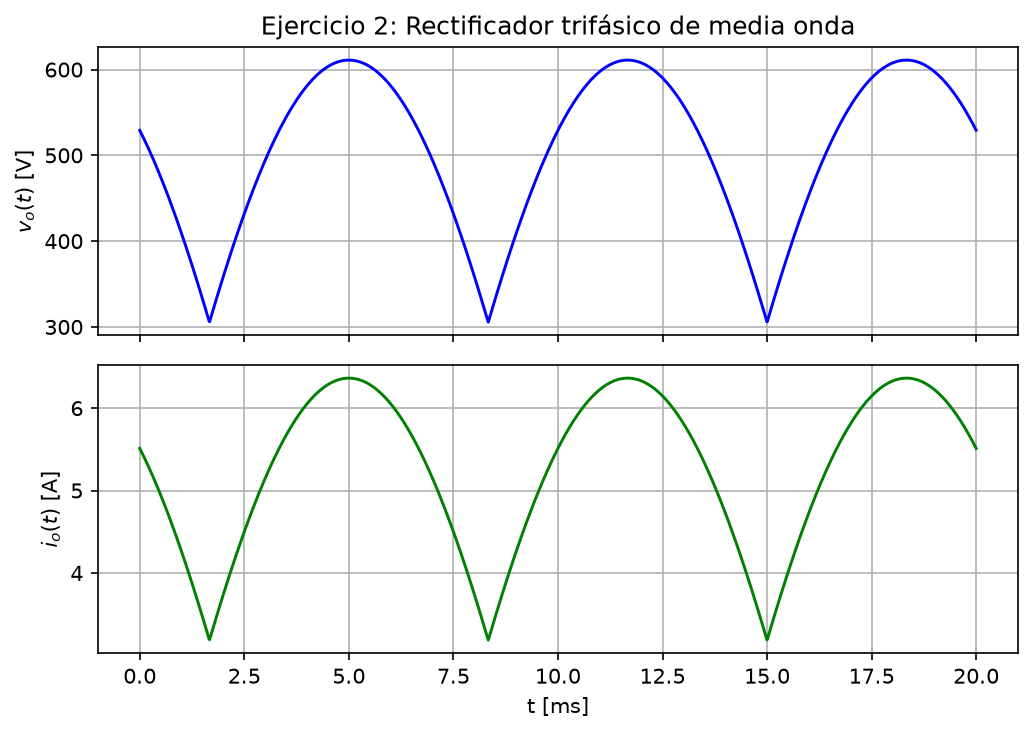
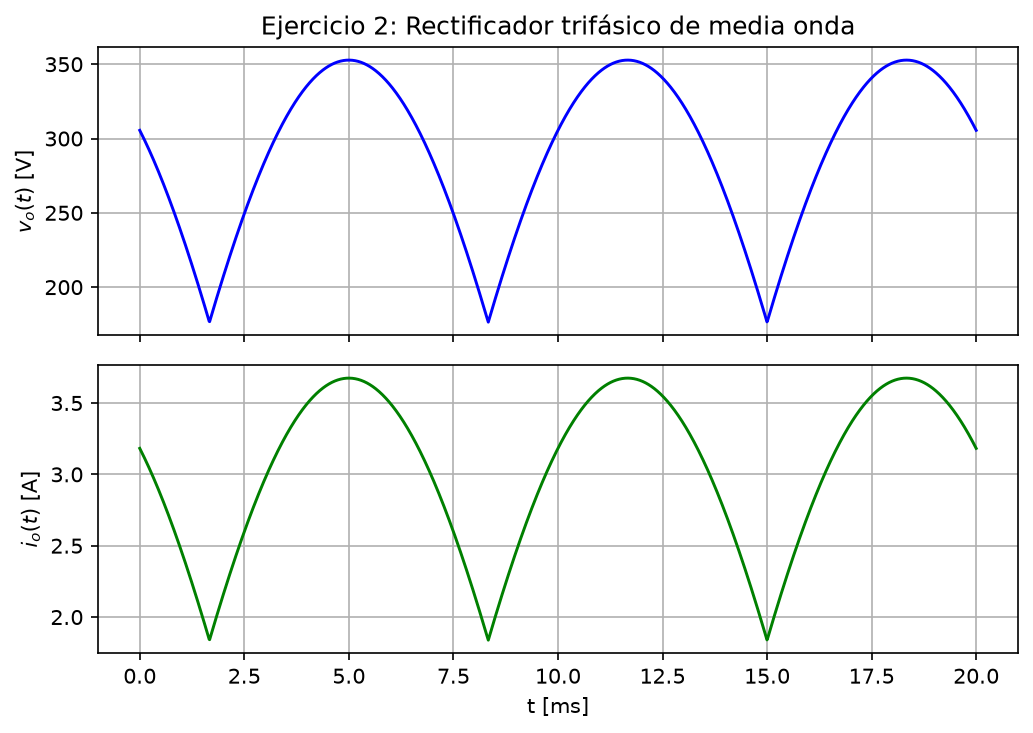
Fix Ex2: VL=611V is line-to-line, half-wave rectifier fed by phase voltage
Vm_phase = VL/sqrt(3) = 352.8V, not 611V directly. Rescales Vdc/Vrms/
Idc/Irms/P/S; PF, eta, and ripple factors unaffected.

diff --git a/T2/main.tex b/T2/main.tex
@@ -184,12 +184,15 @@ $FR_I$ & 0{,}0362 & --\\
 \section{Ejercicio 2 -- Rectificador trifásico de media onda}
 
 Circuito: rectificador trifásico de media onda de 3 diodos (Figura 2), carga R-L.
-El enunciado fija $V_L=611\,\text{V}\sin(100\pi t)$ (tensión de fase pico) para
-todos los estudiantes, independiente de $a,b,c$; dado que el ejercicio no
-especifica $R$ ni $L$, se reutilizan los valores del Ejercicio 1
+El enunciado fija $V_L=611\,\text{V}\sin(100\pi t)$ (tensión línea-línea pico,
+según la etiqueta ``$V_L$'') para todos los estudiantes, independiente de
+$a,b,c$. Como el rectificador de media onda de 3 diodos es alimentado por las
+tensiones de \emph{fase} (línea-neutro), la tensión de fase pico es
+$V_m=V_L/\sqrt3=611\,\text{V}/1{,}732=352{,}8\,\text{V}$. Dado que el ejercicio
+no especifica $R$ ni $L$, se reutilizan los valores del Ejercicio 1
 ($R=96{,}0\,\Omega$, $L=21{,}0\,\text{mH}$).
 
-\textbf{Datos:} $V_m=611\,\text{V}$, $\omega=100\pi\,\text{rad/s}\Rightarrow f=50{,}0\,\text{Hz}$,
+\textbf{Datos:} $V_m=352{,}8\,\text{V}$ (fase, pico), $\omega=100\pi\,\text{rad/s}\Rightarrow f=50{,}0\,\text{Hz}$,
 $R=96{,}0\,\Omega$, $L=21{,}0\,\text{mH}$.
 
 \subsection{Procedimiento}
@@ -200,21 +203,21 @@ $120^\circ$. Para la serie de Fourier, se integra sobre el intervalo de
 conducción de una fase, $[-\pi/3,\pi/3]$ en $\theta=\omega t$:
 
 \begin{equation}
-    a_0 = V_{DC} = \frac{1}{2\pi/3\,\text{rad}}\int_{-\pi/3\,\text{rad}}^{\pi/3\,\text{rad}} 611\,\text{V}\cos\theta\,d\theta
-    = \frac{3(611\,\text{V})}{2\pi}\left[\sin\frac{\pi}{3}-\sin\left(-\frac{\pi}{3}\right)\right]
+    a_0 = V_{DC} = \frac{1}{2\pi/3\,\text{rad}}\int_{-\pi/3\,\text{rad}}^{\pi/3\,\text{rad}} 352{,}8\,\text{V}\cos\theta\,d\theta
+    = \frac{3(352{,}8\,\text{V})}{2\pi}\left[\sin\frac{\pi}{3}-\sin\left(-\frac{\pi}{3}\right)\right]
 \end{equation}
 
 \begin{equation}
-    \boxed{V_{DC} = 505\,\text{V}}
+    \boxed{V_{DC} = 292\,\text{V}}
 \end{equation}
 
 \begin{equation}
-    I_{DC} = \frac{505\,\text{V}}{96{,}0\,\Omega} = \boxed{5{,}26\,\text{A}}
+    I_{DC} = \frac{292\,\text{V}}{96{,}0\,\Omega} = \boxed{3{,}04\,\text{A}}
 \end{equation}
 
 \textbf{Armónico $n=1$ ($m=6$, $f_6=300\,\text{Hz}$):}
 \begin{equation}
-    a_6 = \frac{2}{2\pi/3\,\text{rad}}\int_{-\pi/3\,\text{rad}}^{\pi/3\,\text{rad}} 611\,\text{V}\cos\theta\cos(6\theta)\,d\theta,
+    a_6 = \frac{2}{2\pi/3\,\text{rad}}\int_{-\pi/3\,\text{rad}}^{\pi/3\,\text{rad}} 352{,}8\,\text{V}\cos\theta\cos(6\theta)\,d\theta,
     \qquad b_6 = 0\,\text{V}
 \end{equation}
 
@@ -228,33 +231,33 @@ método del Ejercicio 2 de \texttt{diferent\_values.txt}).
 
 \textbf{Funciones de salida (forma general):}
 \begin{equation}
-    v_o(t) = \underbrace{505\,\text{V}}_{DC} + \underbrace{a_6\cos(1885\,\text{rad/s}\cdot t)}_{AC} + \cdots
+    v_o(t) = \underbrace{292\,\text{V}}_{DC} + \underbrace{a_6\cos(1885\,\text{rad/s}\cdot t)}_{AC} + \cdots
 \end{equation}
 \begin{equation}
-    i_o(t) = \underbrace{5{,}26\,\text{A}}_{DC} + \underbrace{|I_6|\cos(1885\,\text{rad/s}\cdot t - \angle Z_6)}_{AC} + \cdots
+    i_o(t) = \underbrace{3{,}04\,\text{A}}_{DC} + \underbrace{|I_6|\cos(1885\,\text{rad/s}\cdot t - \angle Z_6)}_{AC} + \cdots
 \end{equation}
 
 \textbf{RMS, potencias y factores de calidad:}
 \begin{equation}
-    V_{rms} = \boxed{505{,}7\,\text{V}}, \qquad I_{rms} = \boxed{5{,}27\,\text{A}}
+    V_{rms} = \boxed{292{,}0\,\text{V}}, \qquad I_{rms} = \boxed{3{,}04\,\text{A}}
 \end{equation}
 
 \begin{equation}
-    I_L = I_D = \frac{I_{DC}}{\sqrt3} = \frac{5{,}26\,\text{A}}{1{,}732} = \boxed{3{,}04\,\text{A}}
+    I_L = I_D = \frac{I_{DC}}{\sqrt3} = \frac{3{,}04\,\text{A}}{1{,}732} = \boxed{1{,}75\,\text{A}}
 \end{equation}
 
 \begin{equation}
-    P = I_{rms}^2R = (5{,}27\,\text{A})^2(96{,}0\,\Omega) = \boxed{2663\,\text{W}}
+    P = I_{rms}^2R = (3{,}04\,\text{A})^2(96{,}0\,\Omega) = \boxed{888\,\text{W}}
 \end{equation}
 
 \begin{equation}
-    V_L = \sqrt3\,V_f = \sqrt3(432\,\text{V}) = 748\,\text{V}, \qquad
-    S = \sqrt3\,V_L\,I_L = \sqrt3(748\,\text{V})(3{,}04\,\text{A}) = \boxed{3939\,\text{VA}}
+    V_L = \sqrt3\,V_f = \sqrt3(249{,}4\,\text{V}) = 432{,}0\,\text{V}, \qquad
+    S = \sqrt3\,V_L\,I_L = \sqrt3(432{,}0\,\text{V})(1{,}75\,\text{A}) = \boxed{1313\,\text{VA}}
 \end{equation}
 
 \begin{equation}
-    fp = \frac{2663\,\text{W}}{3939\,\text{VA}} = \boxed{0{,}676}, \qquad
-    \eta = \frac{P_{DC}}{S} = \frac{2660\,\text{W}}{3939\,\text{VA}} = \boxed{0{,}675}
+    fp = \frac{888\,\text{W}}{1313\,\text{VA}} = \boxed{0{,}676}, \qquad
+    \eta = \frac{P_{DC}}{S} = \frac{887\,\text{W}}{1313\,\text{VA}} = \boxed{0{,}675}
 \end{equation}
 
 \begin{equation}
@@ -277,7 +280,7 @@ io2 = vo2 / R2
 \subsection{Simulación}
 
 \textit{Pendiente: simulación en LTspice/Simulink del rectificador trifásico de
-media onda con $V_m=611\,\text{V}$, $f=50{,}0\,\text{Hz}$, $R=96{,}0\,\Omega$,
+media onda con $V_m=352{,}8\,\text{V}$ (fase, pico), $f=50{,}0\,\text{Hz}$, $R=96{,}0\,\Omega$,
 $L=21{,}0\,\text{mH}$. El modelo analítico fue contrastado contra integración
 numérica independiente de la ODE del circuito (ver
 \texttt{tests/test\_ex2\_three\_phase\_hw.py}), con acuerdo dentro de 2--5\,\%;
@@ -291,13 +294,13 @@ falta la verificación contra un simulador de circuitos real.}
 \toprule
 \textbf{Parámetro} & \textbf{Valor} & \textbf{Unidad}\\
 \midrule
-$V_{DC}$ & 505 & V\\
-$V_{rms}$ & 505{,}7 & V\\
-$I_{DC}$ & 5{,}26 & A\\
-$I_{rms}$ & 5{,}27 & A\\
-$I_L=I_D$ & 3{,}04 & A\\
-$P$ & 2663 & W\\
-$S$ & 3939 & VA\\
+$V_{DC}$ & 292 & V\\
+$V_{rms}$ & 292{,}0 & V\\
+$I_{DC}$ & 3{,}04 & A\\
+$I_{rms}$ & 3{,}04 & A\\
+$I_L=I_D$ & 1{,}75 & A\\
+$P$ & 888 & W\\
+$S$ & 1313 & VA\\
 $fp$ & 0{,}676 & --\\
 $\eta$ & 0{,}675 & --\\
 \bottomrule

diff --git a/scripts/dump_t2_values.py b/scripts/dump_t2_values.py
@@ -22,10 +22,13 @@ L1 = (2 * b + c) * 1e-3
 results["ex1"] = dict(Vf=Vf1, VL=VL1, f=60.0, R=R1, L_mH=(2 * b + c),
                        out=ex1_solve(VL1, 60.0, R1, L1))
 
-# Ex2: 3-phase half-wave, Vm=611V (peak phase), f=50Hz, reuse R,L from Ex1
-Vm2 = 611.0
+# Ex2: 3-phase half-wave, VL=611V (peak, LINE-TO-LINE per the "VL" label in the
+# statement); the half-wave rectifier is fed by phase voltages, so
+# Vm_phase = VL/sqrt(3). f=50Hz, reuse R,L from Ex1.
+VL2 = 611.0
+Vm2 = VL2 / 3 ** 0.5
 Vf2 = Vm2 / (2 ** 0.5)
-results["ex2"] = dict(Vf=Vf2, Vm=Vm2, f=50.0, R=R1, L_mH=(2 * b + c),
+results["ex2"] = dict(VL=VL2, Vf=Vf2, Vm=Vm2, f=50.0, R=R1, L_mH=(2 * b + c),
                        out=ex2_solve(Vf2, 50.0, R1, L1))
 
 # Ex3: SCR half-wave, Vm=20(a+b), f=60, R=2(a+b+c), L=45mH, alpha=(4a+3c+8)deg

diff --git a/T2/generate_plots.py b/T2/generate_plots.py
@@ -52,8 +52,10 @@ vo1 = Vm1 * np.cos(np.mod(theta + np.pi / 6, np.pi / 3) - np.pi / 6)
 io1 = vo1 / R1  # resistive approx for the plot envelope shape only; ripple dominated by R here
 plot_two(t * 1e3, vo1, io1, "Ejercicio 1: Rectificador trifásico de 6 pulsos", "ex1_waveforms.png")
 
-# --- Ex2: 3-phase half-wave ---
-Vm2, f2, R2, L2 = 611.0, 50.0, 96.0, 21e-3
+# --- Ex2: 3-phase half-wave (VL=611V is line-to-line peak; the half-wave
+# rectifier is fed by phase voltages, so Vm2 = VL/sqrt(3)) ---
+VL_ex2, f2, R2, L2 = 611.0, 50.0, 96.0, 21e-3
+Vm2 = VL_ex2 / np.sqrt(3)
 w2 = 2 * np.pi * f2
 T2p = 1 / f2
 t2 = np.linspace(0, T2p, 2000)

diff --git a/T2/matlab/ex2.m b/T2/matlab/ex2.m
@@ -1,5 +1,5 @@
-t = linspace(0, 1/50, 2000); w = 100*pi;
-vo = max(max(611*sin(w*t), 611*sin(w*t-2*pi/3)), 611*sin(w*t+2*pi/3));
+t = linspace(0, 1/50, 2000); w = 100*pi; Vm = 611/sqrt(3);
+vo = max(max(Vm*sin(w*t), Vm*sin(w*t-2*pi/3)), Vm*sin(w*t+2*pi/3));
 plot(t*1e3, vo); xlabel('t (ms)'); ylabel('v_o (V)'); grid on;
 io = vo/96;
 figure; plot(t*1e3, io); xlabel('t (ms)'); ylabel('i_o (A)'); grid on;
